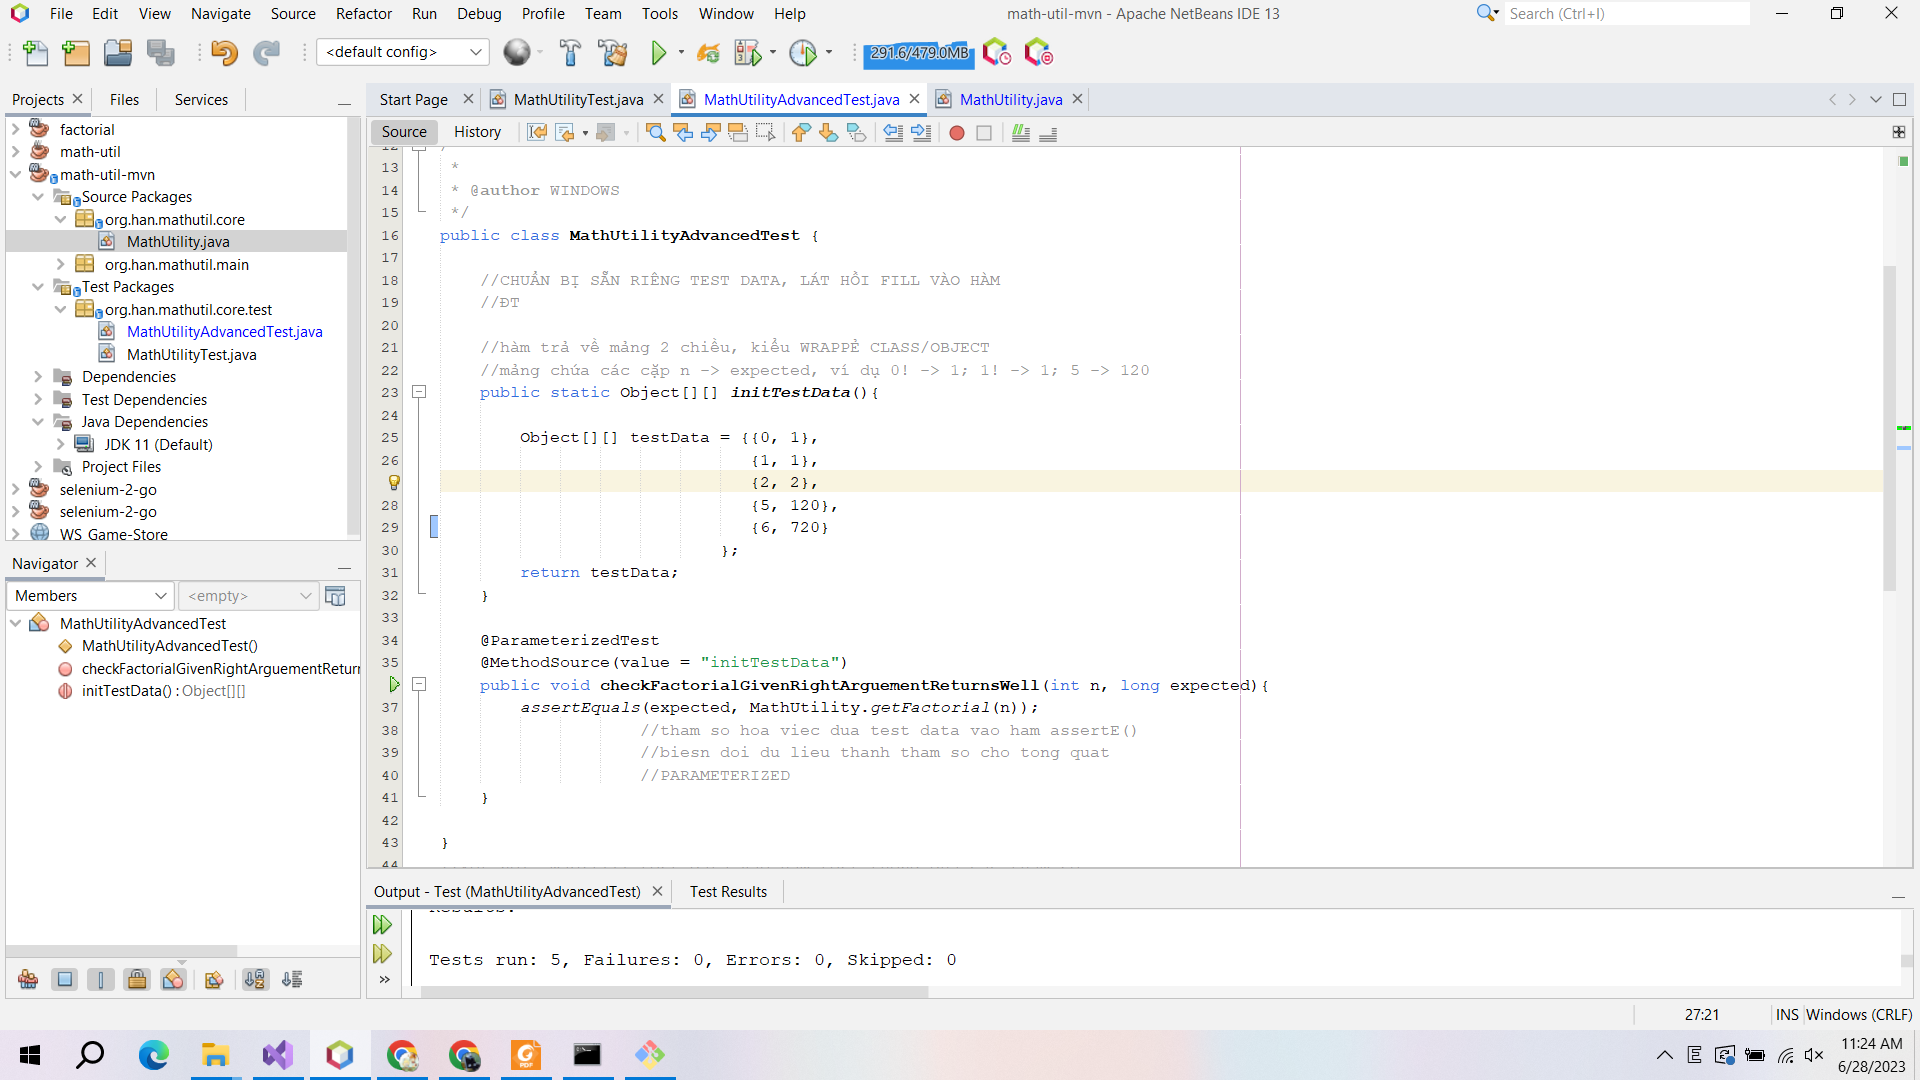
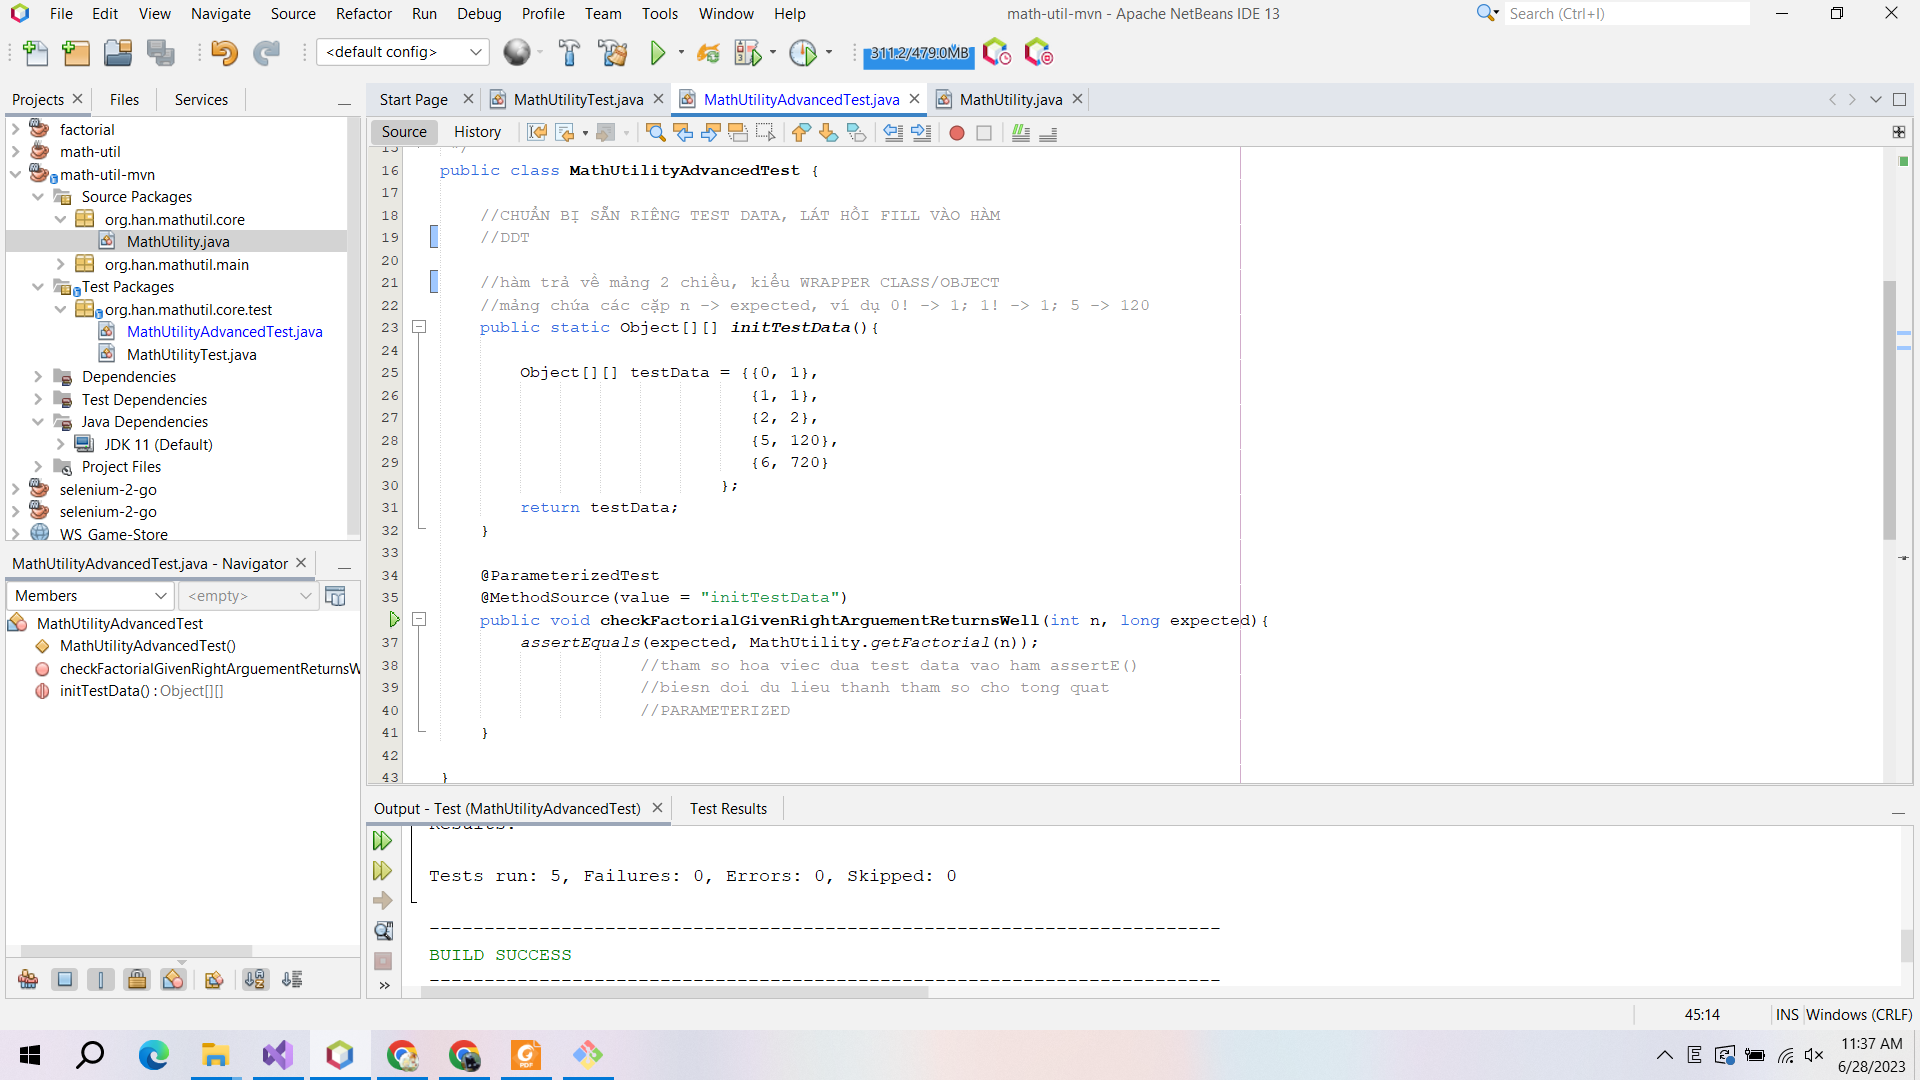
re-add screenshots and update source using recursion to see green4ever

diff --git a/src/test/java/org/han/mathutil/core/test/MathUtilityAdvancedTest.java b/src/test/java/org/han/mathutil/core/test/MathUtilityAdvancedTest.java
@@ -16,9 +16,9 @@ import org.junit.jupiter.params.provider.MethodSource;
 public class MathUtilityAdvancedTest {
     
     //CHUẨN BỊ SẴN RIÊNG TEST DATA, LÁT HỒI FILL VÀO HÀM
-    //ĐT
+    //DDT
     
-    //hàm trả về mảng 2 chiều, kiểu WRAPPẺ CLASS/OBJECT
+    //hàm trả về mảng 2 chiều, kiểu WRAPPER CLASS/OBJECT
     //mảng chứa các cặp n -> expected, ví dụ 0! -> 1; 1! -> 1; 5 -> 120
     public static Object[][] initTestData(){
         
